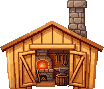
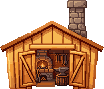
deploy jue 30/07/2026 10:18:25,91

diff --git a/public/game/state.js b/public/game/state.js
@@ -134,9 +134,12 @@ const PICK_DEF = {
 function equippedPick() { return (G.picks.eq && G.picks.owned[G.picks.eq]) ? G.picks.eq : null; }
 function canAfford(c) { for (const k in c) if ((G.res[k]||0) < c[k]) return false; return true; }
 function payCost(c) { for (const k in c) G.res[k]-=c[k]; }
-function craftPick(id) { const pd=PICK_DEF[id]; if (G.picks.owned[id]) { equipPick(id); return; } if (!canAfford(pd.cost)) { toast("Te faltan materiales"); return; } payCost(pd.cost); G.picks.owned[id]=true; G.picks.dur[id]=pd.dur; G.picks.eq=id; addXp("crafting",10+pd.tier*4); log("🛠 Crafteaste "+pd.label+" y lo equipaste.","gold"); toast("🛠 "+pd.label); refreshForge(); refreshInv(); }
+// la fragua se enciende un rato cada vez que trabajás en la Herrería (detalles jueves)
+const FORGE_LIT_MS = 8000;
+function forgeWork() { G.forgeLitUntil = nowMs() + FORGE_LIT_MS; if (window.FARM && FARM.updateForge) FARM.updateForge(); if (window.sfx) sfx("mine"); }
+function craftPick(id) { const pd=PICK_DEF[id]; if (G.picks.owned[id]) { equipPick(id); return; } if (!canAfford(pd.cost)) { toast("Te faltan materiales"); return; } payCost(pd.cost); G.picks.owned[id]=true; G.picks.dur[id]=pd.dur; G.picks.eq=id; addXp("crafting",10+pd.tier*4); log("🛠 Crafteaste "+pd.label+" y lo equipaste.","gold"); toast("🛠 "+pd.label); forgeWork(); refreshForge(); refreshInv(); }
 function repairCostOf(id) { const pd=PICK_DEF[id]; const c={}; for (const k in pd.cost) c[k]=Math.max(1,Math.ceil(pd.cost[k]*0.3)); return c; }
-function repairPick(id) { const pd=PICK_DEF[id]; if (!G.picks.owned[id]) return; if ((G.picks.dur[id]||0)>=pd.dur){ toast("Ya está al 100%"); return; } const c=repairCostOf(id); if (!canAfford(c)){ toast("Te faltan materiales para reparar"); return; } payCost(c); G.picks.dur[id]=pd.dur; log("🔧 Reparaste "+pd.label+" (100%).","good"); toast("🔧 Reparado"); refreshForge(); }
+function repairPick(id) { const pd=PICK_DEF[id]; if (!G.picks.owned[id]) return; if ((G.picks.dur[id]||0)>=pd.dur){ toast("Ya está al 100%"); return; } const c=repairCostOf(id); if (!canAfford(c)){ toast("Te faltan materiales para reparar"); return; } payCost(c); G.picks.dur[id]=pd.dur; log("🔧 Reparaste "+pd.label+" (100%).","good"); toast("🔧 Reparado"); forgeWork(); refreshForge(); }
 function equipPick(id) { if (!G.picks.owned[id]){ toast("No lo tenés"); return; } G.picks.eq=id; log("⛏ Equipaste "+PICK_DEF[id].label+".");  toast("Equipado"); refreshForge(); refreshInv(); }
 
 // --- herramientas (hacha + caña con durabilidad; el pico se maneja aparte) ---
@@ -154,7 +157,7 @@ function craftSword() {
   payCost(SWORD_COST); G.swordOwned = true; G.tools.sword = TOOL_DEF.sword.max;
   if (!G.gear.arma) G.gear.arma = "sword";   // si el slot de arma está libre, se equipa sola
   addXp("crafting", 14);
-  log("⚔ Crafteaste la Espada de Hierro.", "gold"); toast("⚔ ¡Espada de Hierro!");
+  log("⚔ Crafteaste la Espada de Hierro.", "gold"); toast("⚔ ¡Espada de Hierro!"); forgeWork();
   refreshForge(); if (typeof syncSlots === "function") syncSlots(); if (isOpen("ov-inv")) refreshInv();
 }
 // daño del jugador: puños (débil) o espada (escala con la skill Espada)
@@ -173,14 +176,14 @@ function craftBow() {
   payCost(BOW_COST); G.bowOwned = true; G.tools.bow = TOOL_DEF.bow.max;
   if (!G.gear.arma) G.gear.arma = "bow";   // si el slot de arma está libre, se equipa solo
   addXp("crafting", 12);
-  log("🏹 Crafteaste el Arco.", "gold"); toast("🏹 ¡Arco!");
+  log("🏹 Crafteaste el Arco.", "gold"); toast("🏹 ¡Arco!"); forgeWork();
   refreshForge(); if (typeof syncSlots === "function") syncSlots(); if (isOpen("ov-inv")) refreshInv();
 }
 function craftArrows() {
   if (!canAfford(ARROW_COST)) { toast("Te faltan materiales"); return; }
   payCost(ARROW_COST); G.res.flecha = (G.res.flecha || 0) + 10;   // van a la bolsa, NO se autoequipan (detalles jueves)
   addXp("crafting", 3);
-  log("➳ Crafteaste 10 flechas — están en tu bolsa; equipalas en el panel de Equipo.", "good"); toast("➳ +10 flechas en la bolsa");
+  log("➳ Crafteaste 10 flechas — están en tu bolsa; equipalas en el panel de Equipo.", "good"); toast("➳ +10 flechas en la bolsa"); forgeWork();
   refreshForge(); if (typeof syncSlots === "function") syncSlots(); if (isOpen("ov-inv")) refreshInv();
 }
 function bowDmg() { return 6 + Math.floor(skillInfo(G.skills.range).lvl / 2); }
@@ -285,7 +288,7 @@ function craftChest() {
   G.chests.push({ col: null, row: null, items: Array(CHEST_SLOTS).fill(null) });   // queda EN LA BOLSA hasta que lo coloques
   addXp("crafting", 8);
   log("📦 Crafteaste un cofre depósito — está en tu bolsa. Colocalo con un clic desde la bolsa.", "gold");
-  toast("📦 Cofre en la bolsa (" + G.chests.length + "/" + CHEST_MAX + ")");
+  toast("📦 Cofre en la bolsa (" + G.chests.length + "/" + CHEST_MAX + ")"); forgeWork();
   refreshForge(); refreshHud();
   if (typeof syncSlots === "function") syncSlots(); if (isOpen("ov-inv")) refreshInv();
   if (typeof saveFarm === "function") saveFarm(true);
@@ -343,7 +346,7 @@ function rollLoot(def) {
 }
 function toolDur(id) { return (G.tools && G.tools[id] != null) ? G.tools[id] : (TOOL_DEF[id] ? TOOL_DEF[id].max : 0); }
 function useTool(id) { const d = toolDur(id); if (d <= 0) return false; G.tools[id] = d - 1; return true; }
-function repairTool(id) { const td = TOOL_DEF[id]; if (!td) return; if (toolDur(id) >= td.max) { toast("Ya está al 100%"); return; } if (!canAfford(td.repair)) { toast("Te faltan materiales para reparar"); return; } payCost(td.repair); G.tools[id] = td.max; log("🔧 Reparaste " + td.label + " (100%).", "good"); toast("🔧 Reparado"); refreshForge(); if (isOpen("ov-equip")) refreshEquip(); if (isOpen("ov-inv")) refreshInv(); }
+function repairTool(id) { const td = TOOL_DEF[id]; if (!td) return; if (toolDur(id) >= td.max) { toast("Ya está al 100%"); return; } if (!canAfford(td.repair)) { toast("Te faltan materiales para reparar"); return; } payCost(td.repair); G.tools[id] = td.max; log("🔧 Reparaste " + td.label + " (100%).", "good"); toast("🔧 Reparado"); forgeWork(); refreshForge(); if (isOpen("ov-equip")) refreshEquip(); if (isOpen("ov-inv")) refreshInv(); }
 
 // --- inventario (base + filas extra) ---
 const INV_BASE = 20, INV_MAX_ROWS = 5;   // 20 base (4 filas de 5), hasta +5 filas más

diff --git a/public/game/farm.js b/public/game/farm.js
@@ -310,7 +310,6 @@ class FarmScene extends Phaser.Scene {
         o.sprite.setPosition(o.origCx, o.origBy).setDepth(o.origBy);
         if (o.shadow) o.shadow.setPosition(o.origCx, o.origBy - 3).setDepth(o.origBy - 0.5);
         if (o.timer) o.timer.setPosition(o.origCx, o.origBy - T * 0.85);
-        if (o.flameFx) o.flameFx.setPosition(o.origCx - o.rw * 0.13, o.origBy - o.sprite.displayHeight * 0.30).setDepth(o.origBy + 1);
         toast("🚫 Ahí ya hay algo — elegí otra celda");
         this.dragObj = null; return;
       }
@@ -318,7 +317,6 @@ class FarmScene extends Phaser.Scene {
       o.sprite.setPosition(o.cx, o.by).setDepth(o.by);
       if (o.shadow) o.shadow.setPosition(o.cx, o.by - 3).setDepth(o.by - 0.5);
       if (o.timer) o.timer.setPosition(o.cx, o.by - T * 0.85);
-      if (o.flameFx) o.flameFx.setPosition(o.cx - o.rw * 0.13, o.by - o.sprite.displayHeight * 0.30).setDepth(o.by + 1);
       if (o.type === "cofre") { const c = G.chests && G.chests[o.chestIdx]; if (c) { c.col = leftCol; c.row = baseRow - 1; } }
       else { if (!G.layout) G.layout = {}; G.layout[o.i] = { cx: o.cx, by: o.by }; }
       this.rebuildCollisions();
@@ -358,14 +356,9 @@ class FarmScene extends Phaser.Scene {
     };
     const storeObj = this.objs.find(o => o.type === "store");
     if (storeObj) smokeFrom(storeObj, 0.26, 0xd8d2c4, () => true);                       // herrería: siempre
-    // fuego animado en la boca de la fragua (experimental — detalles jueves)
-    if (storeObj && this.textures.exists("flame_0")) {
-      const fx = storeObj.cx - storeObj.rw * 0.13, fy = storeObj.by - storeObj.sprite.displayHeight * 0.30;
-      const fl = this.add.sprite(fx, fy, "flame_0").setOrigin(0.5, 1).setDepth(storeObj.by + 1);
-      fl.setDisplaySize(11, 13);
-      if (this.anims.exists("flame")) fl.play("flame");
-      storeObj.flameFx = fl;   // por si se arrastra el edificio en edición
-    }
+    // fragua: media por defecto, encendida mientras se trabaja en la Herrería (detalles jueves)
+    this.storeObj = storeObj;
+    this.updateForge();
     const cocinaObj = this.objs.find(o => o.type === "cocina");
     if (cocinaObj) smokeFrom(cocinaObj, 0.20, 0xefe9db, () => true);                     // cocina: humo SIEMPRE (detalles jueves)
     if (cocinaObj) smokeFrom(cocinaObj, 0.20, 0xffffff, () => !!G.cooking);              // …y el doble de bocanadas mientras se cocina
@@ -713,6 +706,14 @@ class FarmScene extends Phaser.Scene {
     swing();
   }
 
+  // fragua encendida mientras se craftea/repara; si no, a medio fuego (detalles jueves)
+  updateForge() {
+    const o = this.storeObj; if (!o || !o.sprite) return;
+    const lit = (G.forgeLitUntil || 0) > nowMs();
+    const key = lit && this.textures.exists("store_lit") ? "store_lit" : "store";
+    if (o.sprite.texture.key !== key && this.textures.exists(key)) this.setObjTex(o, key, o.rw || o.w);
+  }
+
   // crea (o ubica por primera vez) un cofre depósito en la granja
   spawnChest(idx) {
     const c = G.chests[idx]; if (!c) return;
@@ -904,6 +905,7 @@ class FarmScene extends Phaser.Scene {
       }
     }
     this.updateHoverFx();   // brillo sobre lo interactuable (hover + cercanía)
+    if (G.forgeLitUntil && t >= G.forgeLitUntil) { G.forgeLitUntil = 0; this.updateForge(); }   // se apaga sola al terminar
 
     // lotes: pasar de "creciendo" a "listo"
     for (const pl of this.plots) {

diff --git a/public/game/boot.js b/public/game/boot.js
@@ -29,7 +29,6 @@ class BootScene extends Phaser.Scene {
     L.push(["tree", P + "tree.png?v=3"]);   // v3: árbol con efecto de plantado (detalles jueves)
     L.push(["pond", P + "pond.png?v=2"]);
     L.push(["portal", P + "portal.png"]);   // portal al Bosque
-    for (let i = 0; i < 9; i++) L.push(["flame_" + i, P + "flame_" + i + ".png"]);   // fuego de la herrería
     // v3: nodos plantados en la tierra + estados dañados (intermedio del cooldown)
     ["node_stone","node_bronze","node_gold","node_diamond","node_netherite"]
       .forEach(k => { L.push([k, P + k + ".png?v=3"]); L.push([k + "_half", P + k + "_half.png"]); });
@@ -38,7 +37,8 @@ class BootScene extends Phaser.Scene {
     L.push(["plot_blocked", P + "plot_blocked.png?v=3"]);   // sin trabajar: ramas, piedras y yuyos
     L.push(["barn", P + "barn.png?v=3"]);
     L.push(["market", P + "market.png?v=3"]);
-    L.push(["store", P + "store.png?v=3"]);
+    L.push(["store", P + "store.png?v=4"]);          // v4: fragua a medio fuego (estado por defecto)
+    L.push(["store_lit", P + "store_lit.png"]);      // fragua encendida (mientras crafteás/reparás)
     ["fence_top","fence_bottom","fence_left","fence_right"].forEach(k => L.push([k, P + k + ".png?v=2"]));
     L.push(["fishing_rod", P + "fishing_rod.png?v=2"]);   // caña cozy nueva
     L.push(["fence_corner", P + "fence_corner.png?v=3"]);
@@ -49,8 +49,8 @@ class BootScene extends Phaser.Scene {
   preload() {
     // ATLAS: todos los sprites del mundo en 2 archivos (mucho más liviano para el server free).
     // Si el atlas no llega, ensureAll() baja los archivos sueltos como respaldo.
-    this.load.image("__atlas", "assets/atlas.png?v=16");
-    this.load.json("__atlasmap", "assets/atlas.json?v=16");
+    this.load.image("__atlas", "assets/atlas.png?v=17");
+    this.load.json("__atlasmap", "assets/atlas.json?v=17");
 
     // barra de carga simple
     const w = this.scale.width, h = this.scale.height;
@@ -107,7 +107,5 @@ class BootScene extends Phaser.Scene {
       const ks = [0,1,2,3,4,5,6].map(i => "act_" + a + "_" + i);
       if (has(ks)) this.anims.create({ key: "act_" + a, frames: ks.map(k => ({ key: k })), frameRate: 10, repeat: -1 });
     });
-    const fk = [0,1,2,3,4,5,6,7,8].map(i => "flame_" + i);
-    if (has(fk)) this.anims.create({ key: "flame", frames: fk.map(k => ({ key: k })), frameRate: 10, repeat: -1 });
   }
 }
